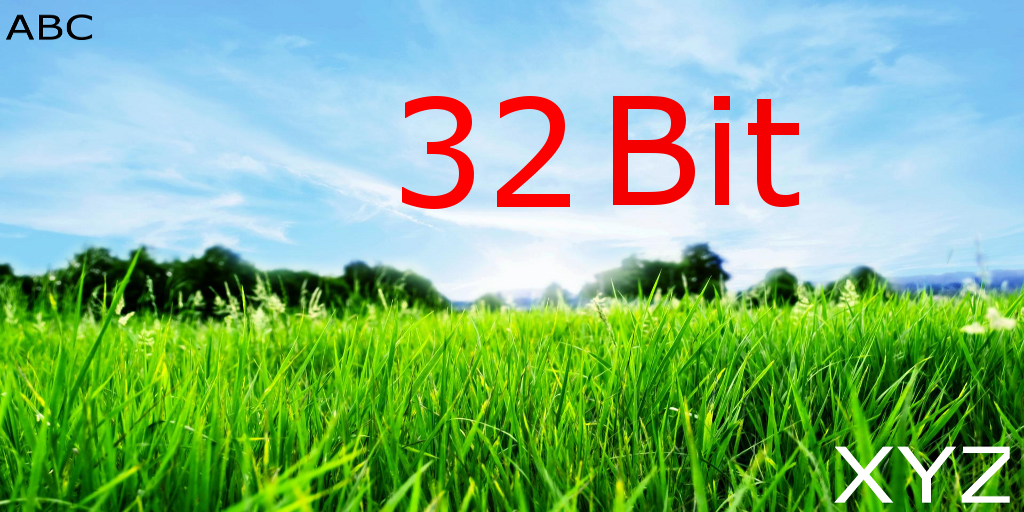
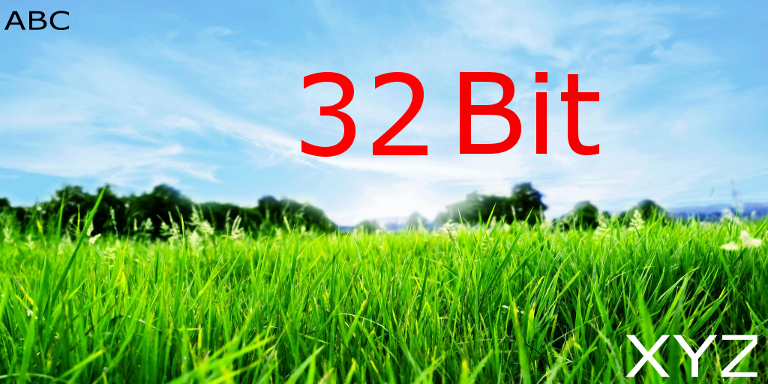
Added getVerticesOnRect method in GLUtils class.

diff --git a/WebGL/NodeJS/public/src/Looper.js b/WebGL/NodeJS/public/src/Looper.js
@@ -21,18 +21,25 @@ class Looper
 		//var projValues = GLUtils.getProjectionValues(cam3D.projMat.m);
 		//console.log('projValues : ', projValues);
 		
-		//var pos2D = GLUtils.get2DPosOnScreenFrom3DPos(new CVector3(0.0, 0.0, 0.0), cam3D.modelMat.m, cam3D.projMat.m, sw, sh)
-		
+		//var pos2D = GLUtils.get2DPosOnScreenFrom3DPos(new CVector3(0.0, 0.0, 0.0), cam3D.modelMat.m, cam3D.projMat.m, sw, sh);
 		//console.log('2DPos : ', pos2D);
 		
 		var pos3DVec = Array(0);
-		pos3DVec.push(new CVector3(0.0, 0.0, 0.0));
-		pos3DVec.push(new CVector3(1.0, 0.0, 0.0));
-		pos3DVec.push(new CVector3(0.0, 1.0, 0.0));
+		pos3DVec.push(0.0);
+		pos3DVec.push(0.0);
+		pos3DVec.push(0.0);
+		pos3DVec.push(1.0);
+		pos3DVec.push(0.0);
+		pos3DVec.push(0.0);
+		pos3DVec.push(0.0);
+		pos3DVec.push(1.0);
+		pos3DVec.push(0.0);
 		
-		//var pos2DVec = GLUtils.get2DPosVecOnScreenFrom3DPosVec(pos3DVec, cam3D.modelMat.m, cam3D.projMat.m, sw, sh);
+		var pos2DVec = GLUtils.get2DPosArrOnScreenFrom3DPosArr(pos3DVec, 3, cam3D.modelMat.m, cam3D.projMat.m, sw, sh);
+		console.log('pos2DVec : ',pos2DVec);
 		
-		//console.log('pos2DVec : ',pos2DVec);
+		var pos2DOnRect = GLUtils.getVerticesOnRect(pos3DVec, 3, cam3D.modelMat.m, cam3D.projMat.m, null, 0,0,450,450, sw, sh);
+		console.log('pos2DOnRect : ',pos2DOnRect);
 		
 		var minMax = GLUtils.getMinMaxPoints(pos3DVec);
 		console.log('minMax : ',minMax);
@@ -46,7 +53,7 @@ class Looper
 		await this.objModel.init("./data/cottage");
 		
 		this.texture = new GLTexture();
-		await this.texture.init('./data/Sample24Bit.png', true);
+		await this.texture.init('./data/Sample32Bit.png', true);
 		//this.texture.setBounds(100,200,sw,sh);
 		//this.texture.setBounds(1,2,5,2);
 		
@@ -110,18 +117,25 @@ class Looper
 		this.cylinder.draw();
 		this.sphere.draw();
 
+		//gl.disable(gl.DEPTH_TEST);
+		//this.texture.setBounds(10,10,500,500);
+		//this.texture.draw(cam2D.projMat.m, cam2D.modelMat.m);
+		//gl.enable(gl.DEPTH_TEST);
+
 		//this.fbo.unBind();
 
-
-		// gl.clearColor(0.2, 0.2, 0.2, 1.0);
-		// gl.clear(gl.COLOR_BUFFER_BIT | gl.DEPTH_BUFFER_BIT);
-		// gl.disable(gl.DEPTH_TEST);
+/*
+		gl.clearColor(0.2, 0.2, 0.2, 1.0);
+		gl.clear(gl.COLOR_BUFFER_BIT | gl.DEPTH_BUFFER_BIT);
+		gl.disable(gl.DEPTH_TEST);
 		
-		// this.texture.setBounds(10,10, this._sw*0.9, this._sh*0.9);
-		// this.texture.drawWithTextureID(this.fbo.getTextureID(), cam2D.projMat.m, cam2D.modelMat.m);
+		this.texture.setBounds(10,10, this._sw*0.9, this._sh*0.9);
+		this.texture.drawWithTextureID(this.fbo.getTextureID(), cam2D.projMat.m, cam2D.modelMat.m);
 		
-		//this.rect.draw();
-		//this.triangle.draw();
+		this.rect.draw();
+		this.triangle.draw();
+*/
+		
 	}
 }
 

diff --git a/WebGL/NodeJS/public/src/GLUtil/GLUtils.js b/WebGL/NodeJS/public/src/GLUtil/GLUtils.js
@@ -19,7 +19,8 @@ class MinMax
 		this.max = new CVector3(max.x, max.y, max.z);
 	}
 }
-		
+
+
 class GLUtils
 {
 	constructor()
@@ -72,6 +73,21 @@ class GLUtils
 		return textureID;
 	}
 
+	static generateEmptyTexture(w, h)
+	{
+		var textureID = gl.createTexture();
+		gl.bindTexture(gl.TEXTURE_2D, textureID);
+		
+		gl.pixelStorei(gl.UNPACK_FLIP_Y_WEBGL, true);
+		gl.texImage2D(gl.TEXTURE_2D, 0, gl.RGBA, w, h, 0, gl.RGBA, gl.UNSIGNED_BYTE, null);
+		gl.texParameteri(gl.TEXTURE_2D, gl.TEXTURE_MAG_FILTER, gl.LINEAR);
+		gl.texParameteri(gl.TEXTURE_2D, gl.TEXTURE_MIN_FILTER, gl.LINEAR);
+		gl.texParameteri(gl.TEXTURE_2D, gl.TEXTURE_WRAP_S, gl.CLAMP_TO_EDGE);
+		gl.texParameteri(gl.TEXTURE_2D, gl.TEXTURE_WRAP_T, gl.CLAMP_TO_EDGE);
+		
+		return textureID;
+	}
+	
 	static getProjectionValues( projMat )
 	{
 		var m = projMat;
@@ -128,7 +144,7 @@ class GLUtils
 		return new CVector3(pos2DX, pos2DY, 0.0);
 	}
 		
-	static get2DPosVecOnScreenFrom3DPosVec(pos3DVec, modelMat, projMat, sw, sh)
+	static get2DPosArrOnScreenFrom3DPosArr(vertexArr, numVertex, modelMat, projMat, sw, sh)
 	{
 		var vec2d = Array(0);
 
@@ -141,11 +157,11 @@ class GLUtils
 		var n = projValues.n;
 		var f = projValues.f;
 
-		for(var i=0; i<pos3DVec.length; i++)
+		for(var i=0; i<numVertex*3; i+=3)
 		{
-			var x = pos3DVec[i].x;
-			var y = pos3DVec[i].y;
-			var z = pos3DVec[i].z;
+			var x = vertexArr[i+0];
+			var y = vertexArr[i+1];
+			var z = vertexArr[i+2];
 
 			var a = modelMat;
 
@@ -168,7 +184,8 @@ class GLUtils
 			var x2D = (( xOnZNear - l ) / zNearW) * sw;
 			var y2D = sh - ((( yOnZNear - b ) / zNearH) * sh);
 
-			vec2d.push( new CVector3(x2D, y2D, 0) );
+			vec2d.push(x2D);
+			vec2d.push(y2D);
 		}
 
 		return vec2d;
@@ -200,6 +217,32 @@ class GLUtils
 		return new MinMax( new CVector3(minX, minY, minZ), new CVector3(maxX, maxY, maxZ) );
 	}
 	
+	static getVerticesOnRect(vertexArr, numVertex, modelMat, projMat, objMat, x, y, w, h, sw, sh)
+	{
+		var modelAndOriMat = new GLMat();
+		modelAndOriMat.copy(modelMat);
+		
+		if(objMat != null)
+			modelAndOriMat.glMultMatrixf(objMat);
+		
+		var vertex2DArr = this.get2DPosArrOnScreenFrom3DPosArr(vertexArr, numVertex, modelAndOriMat.m, projMat, sw, sh)
+		
+		var verArrOnRect = Array(0);
+		
+		for(var i=0; i<vertex2DArr.length; i+=2)
+		{
+			var xx = vertex2DArr[i+0];
+			var yy = vertex2DArr[i+1];
+			
+			if(xx >= x && xx <= x+w && yy >= y && yy <= y+h)
+			{
+				verArrOnRect.push(xx);
+				verArrOnRect.push(yy);
+			}
+		}
+
+		return verArrOnRect;
+	}	
 }
 
 

diff --git a/WebGL/NodeJS/public/src/GLUtil/GLFBO.js b/WebGL/NodeJS/public/src/GLUtil/GLFBO.js
@@ -8,7 +8,7 @@ class GLFBO
 		
 		this._fboID = gl.createFramebuffer();
 		this.bind();
-		this._texID = this.generateEmptyTexture(this._w, this._h);
+		this._texID = GLUtils.generateEmptyTexture(this._w, this._h);
 		this.attachTextureToFBO(this._texID);
 		this._depthBufID = this.createDepthBuffer(this._w, this._h);
 		this.attachDepthBufferToFBO(this._depthBufID);
@@ -30,20 +30,6 @@ class GLFBO
 	getTextureID()
 	{
 		return this._texID;
-	}
-
-	generateEmptyTexture(w, h)
-	{
-		var texID = gl.createTexture();
-		gl.bindTexture(gl.TEXTURE_2D, texID);
-		gl.texImage2D(gl.TEXTURE_2D, 0, gl.RGBA, w, h, 0, gl.RGBA, gl.UNSIGNED_BYTE, null);
-		gl.texParameteri(gl.TEXTURE_2D, gl.TEXTURE_MIN_FILTER, gl.LINEAR);
-		gl.texParameteri(gl.TEXTURE_2D, gl.TEXTURE_MAG_FILTER, gl.LINEAR);
-		//gl.texParameteri(gl.TEXTURE_2D, gl.TEXTURE_WRAP_S, gl.CLAMP_TO_EDGE);
-		//gl.texParameteri(gl.TEXTURE_2D, gl.TEXTURE_WRAP_T, gl.CLAMP_TO_EDGE);
-		gl.bindTexture(gl.TEXTURE_2D, null);
-
-		return texID;
 	}
 
 	attachTextureToFBO(texID)

diff --git a/WebGL/NodeJS/public/src/main.js b/WebGL/NodeJS/public/src/main.js
@@ -15,8 +15,8 @@ async function InitDemo()
 	console.log('From InitDemo method...');	
 	
 	var canvas = document.getElementById('game-surface');
-	canvas.width = 1024;
-	canvas.height = 1024;
+	canvas.width = 900;
+	canvas.height = 700;
 	canvas.oncontextmenu = () => false;
 
 	addMouseEvents(canvas);

diff --git a/WebGL/NodeJS/public/src/GLUtil/GLMat.js b/WebGL/NodeJS/public/src/GLUtil/GLMat.js
@@ -6,6 +6,14 @@ class GLMat
 		this.m[0] = this.m[5] = this.m[10] = this.m[15] = 1.0;
 	}
 	
+	copy(m)
+	{
+		for(var i=0; i<16; i++)
+		{
+			this.m[i] = m[i];
+		}
+	}
+	
 	glLoadIdentity() {
 		
 		for(var i=0; i<16; i++) {

diff --git a/WebGL/NodeJS/public/index.html b/WebGL/NodeJS/public/index.html
@@ -1,6 +1,7 @@
 <html>
 	<head>
 		<title> WebGL - Simple Triangle </title>
+		<link rel="shortcut icon" href="#" />
 	</head>
 
 	<body onload="InitDemo();">
